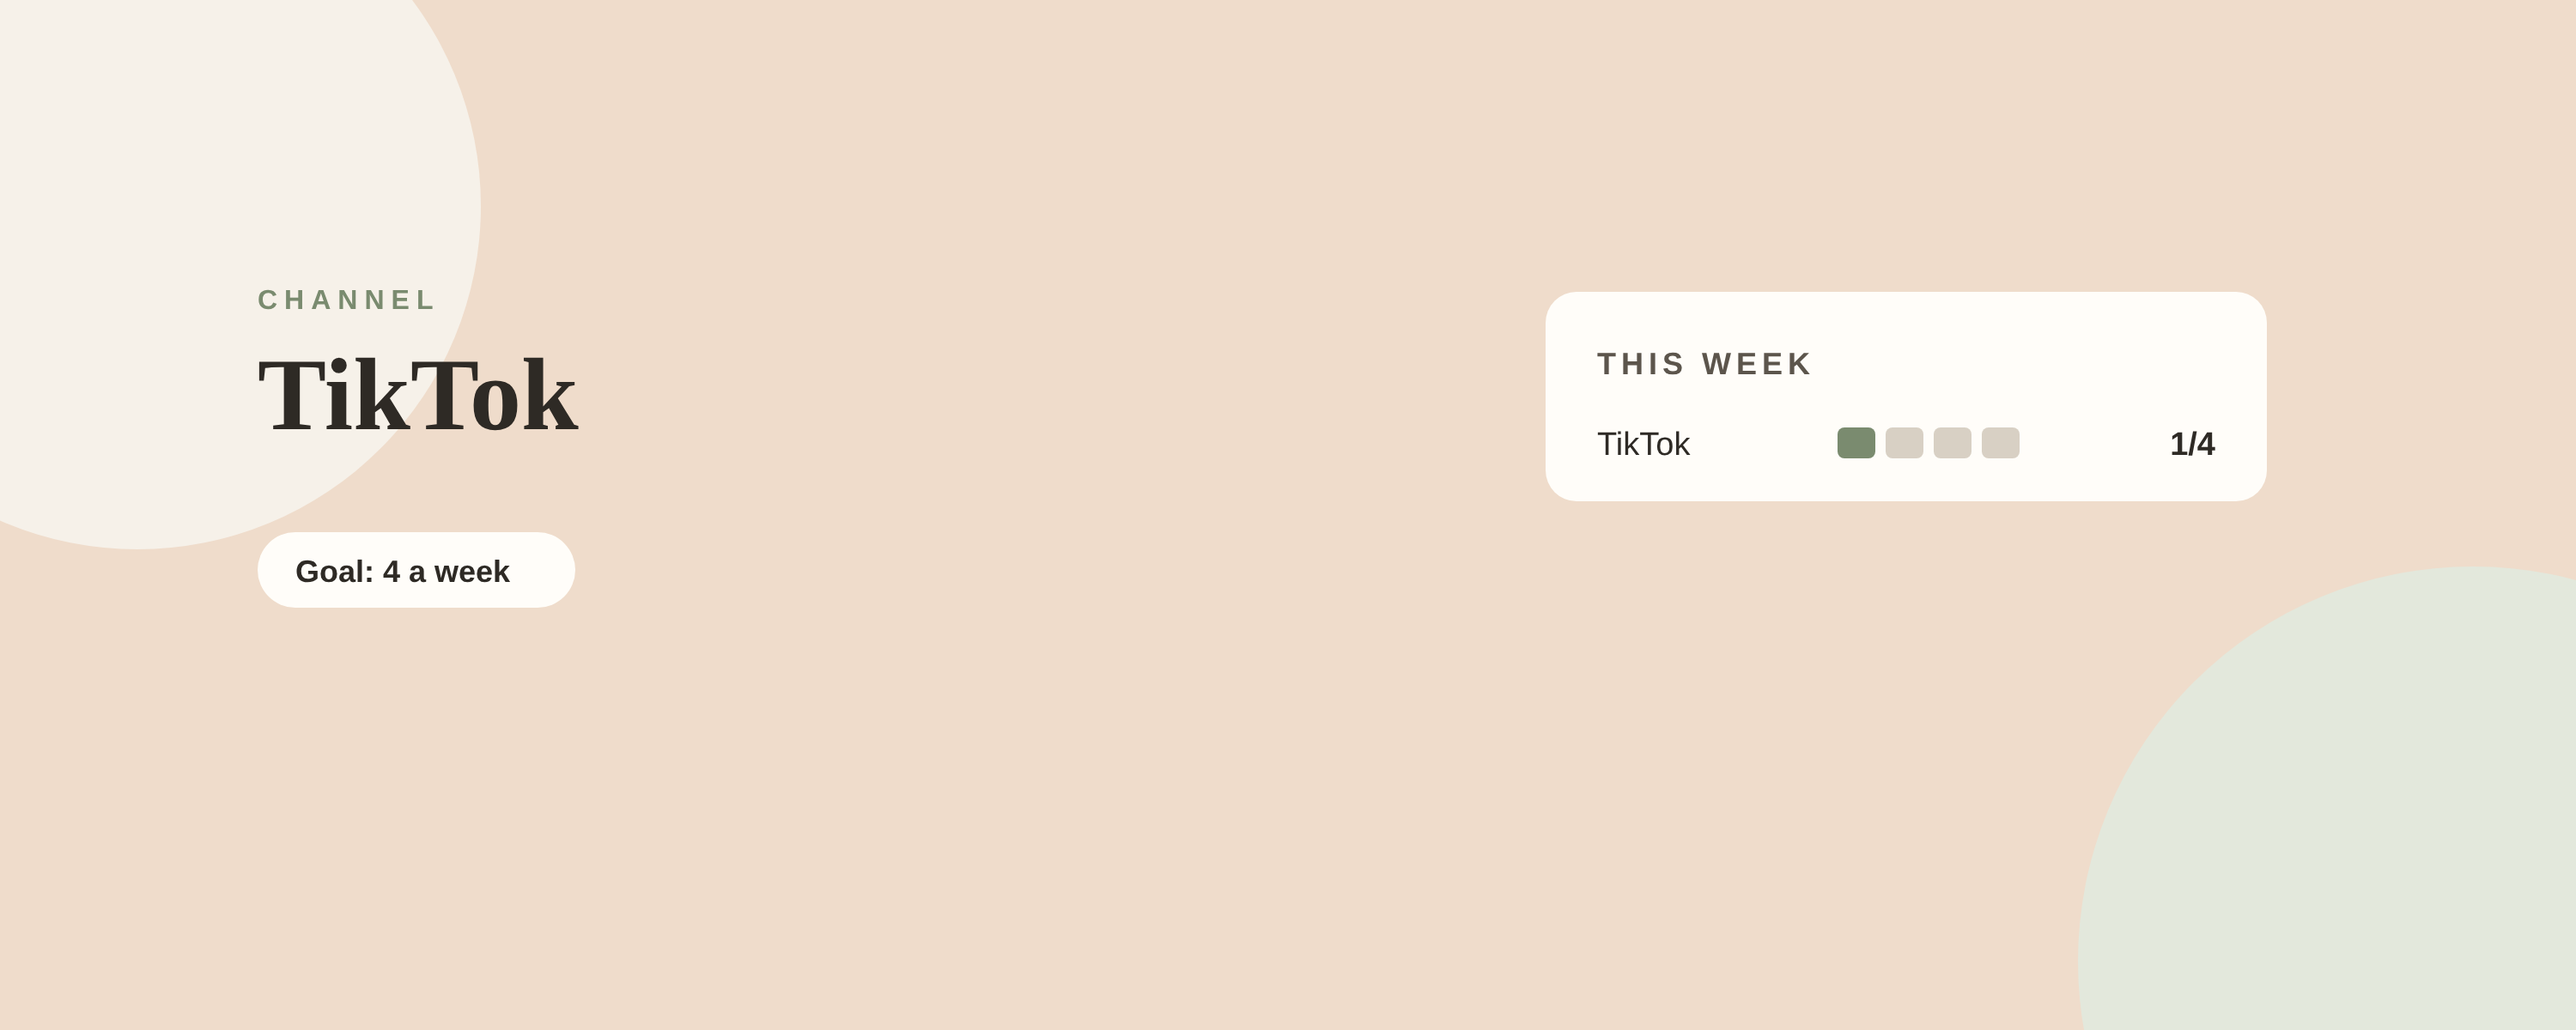
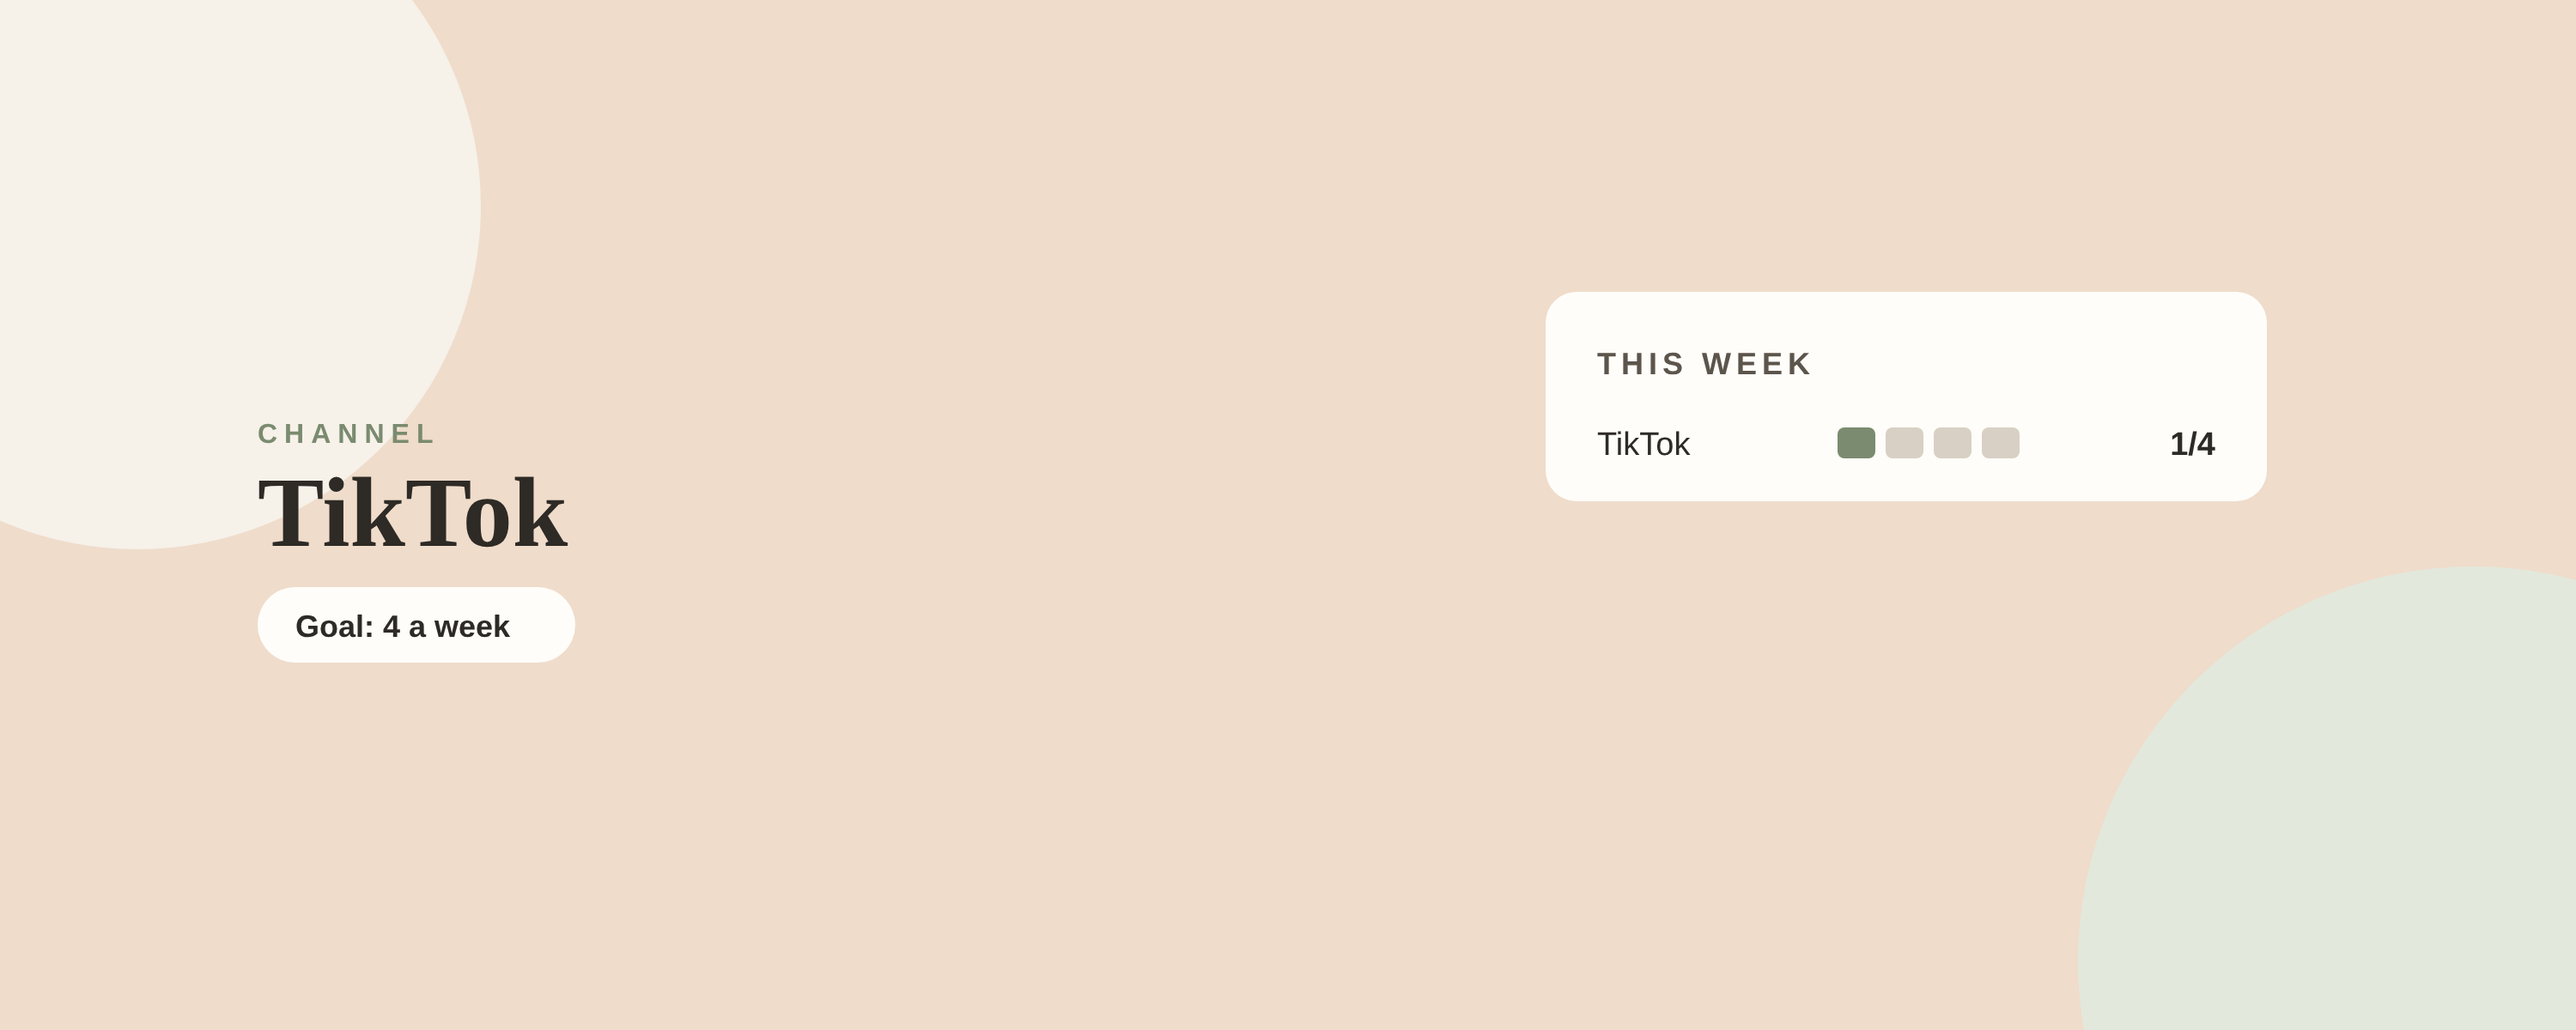
Recenter free template covers so Notion's crop keeps the title
Claude-Session: https://claude.ai/code/session_01SESvdWYowsCKTnCuHXDcbL

Changed region(s): [[0.093, 0.4625, 0.248, 0.6475], [0.093, 0.3392, 0.217, 0.4317], [0.093, 0.2775, 0.155, 0.3083]]

diff --git a/generator/free_covers.py b/generator/free_covers.py
@@ -29,12 +29,16 @@ def base(bg_i, inner):
 
 
 def title_block(kicker, lines, pills=(), y0=None, size=62):
+    # Everything sits in the middle band (y 220-400) so Notion's wide crop keeps it.
     n = len(lines)
-    y = y0 or (250 if n == 1 else 215)
-    out = f"<text x='150' y='{y-70}' font-family='{SANS}' font-size='16' font-weight='700' fill='{SAGE}' letter-spacing='4'>{esc(kicker)}</text>"
+    if n == 1:
+        size, kick_y, base, py = min(size, 58), 258, [318], 342
+    else:
+        size, kick_y, base, py = 48, 226, [278, 334], 356
+    out = f"<text x='150' y='{kick_y}' font-family='{SANS}' font-size='16' font-weight='700' fill='{SAGE}' letter-spacing='4'>{esc(kicker)}</text>"
     for i, l in enumerate(lines):
-        out += f"<text x='150' y='{y+i*int(size*1.15)}' font-family='{SERIF}' font-size='{size}' font-weight='700' fill='{INK if i == 0 else MUT}'>{esc(l)}</text>"
-    x, py = 150, y + (n - 1) * int(size * 1.15) + 60
+        out += f"<text x='150' y='{base[i]}' font-family='{SERIF}' font-size='{size}' font-weight='700' fill='{INK if i == 0 else MUT}'>{esc(l)}</text>"
+    x = 150
     for t, c in pills:
         w, s = pill(x, py, t, c)
         out += s
@@ -91,7 +95,7 @@ C['inv_home'] = base(0, title_block('FREE NOTION TEMPLATE', ['Get paid on time.'
 C['inv_db'] = base(1, title_block('FREELANCE INVOICE TRACKER', ['Invoices'], [('Days overdue', ACC), ('Next step', SAGE)])
                    + card(960, 120, 340, 360, 'STATUS', [('Draft', '1', MUT), ('Sent', '2', ACC), ('Paid', '2', SAGE)], ('Chase these first', ACC)))
 C['inv_clients'] = base(2, title_block('FREELANCE INVOICE TRACKER', ['Clients'], [('Owes you', ACC), ('Lifetime paid', SAGE), ('Pays on time?', INK)])
-                        + card(960, 120, 340, 360, 'CLIENT', [('Owes you', '$1,200', ACC), ('Lifetime paid', '$4,300', SAGE), ('Pays', 'On time', SAGE)]))
+                        + card(960, 120, 340, 360, 'CLIENT', [('Owes you', '$0', INK), ('Lifetime paid', '$1,750', SAGE), ('Pays', 'On time', SAGE)]))
 C['inv_emails'] = base(0, title_block('FREELANCE INVOICE TRACKER', ['Reminder Emails'], [('Friendly', SAGE), ('Second', ACC), ('Final notice', INK)])
                        + card(960, 120, 340, 360, 'EMAIL', [('Invoice sent', '', INK), ('Friendly reminder', '', INK), ('Second reminder', '', INK), ('Final notice', '', INK)]))
 C['inv_kit'] = base(1, title_block('FREELANCE INVOICE TRACKER', ['Get Paid Faster Kit'], [('Checklist', SAGE), ('Payment terms', ACC), ('5 habits', INK)], size=58)
